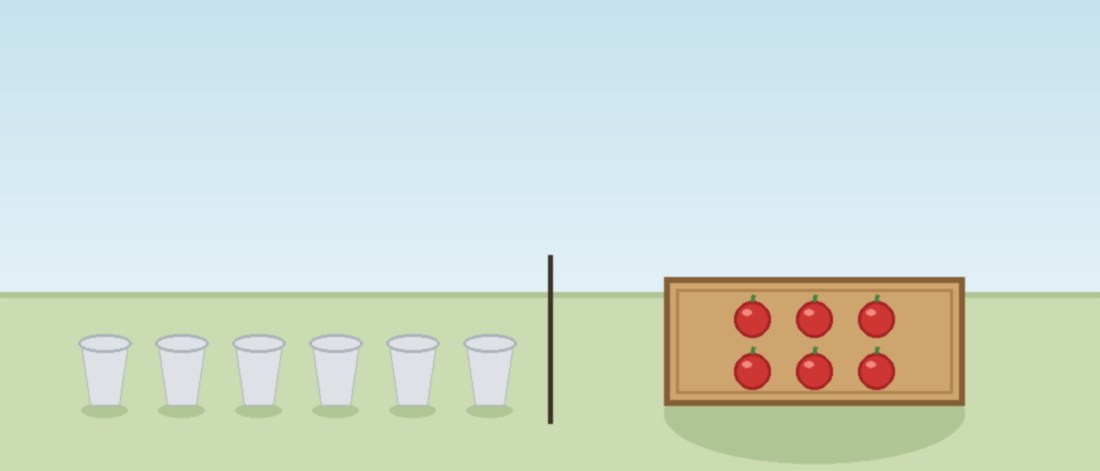
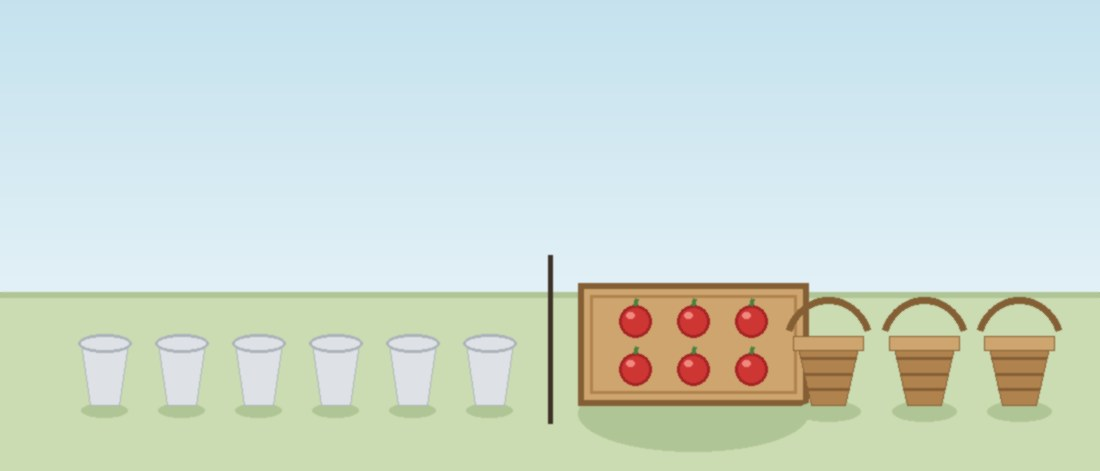
HH-167: show the empty baskets in the divide-by-zero panel (24/25 -> 25/25)
The last QC failure. L4 p7's right half drew the untouched crate of six berries
but no empty baskets, so it read as "here are six berries" and depicted nothing
about 6 / 0. The caption's argument is "empty baskets never hold 6 berries" —
which needs the empty baskets ON SCREEN beside the pile that never gets divided.

Now: six empty cups on the left for 0 / 6 = 0, and on the right the crate of six
still full beside a row of empty baskets waiting for a share that can never come.

Changed region(s): [[0.5255, 0.5648, 0.9582, 0.9809], [0.9582, 0.6837, 0.9891, 0.7134]]

diff --git a/tutor/mangadiagram.py b/tutor/mangadiagram.py
@@ -381,16 +381,25 @@ def zero_vs_pile(empties, pile, span="full"):
     gap = min(120, (w * 0.42) / max(empties, 1))
     for cx in _row_positions(empties, w * 0.27, gap):
         cup(d, cx, base, w=int(gap * 0.62), h=62)
-    crate_w = min(300, w * 0.34)
-    x0, x1 = w * 0.74 - crate_w / 2, w * 0.74 + crate_w / 2
+    # The right side has to hold BOTH halves of the argument: a row of empty
+    # baskets waiting to be filled, and the pile that never gets divided among
+    # them. Drawing the pile alone reads as "here are six berries" and says
+    # nothing about 6 / 0.
+    crate_cx = w * 0.63
+    crate_w = min(230, w * 0.22)
+    x0, x1 = crate_cx - crate_w / 2, crate_cx + crate_w / 2
     y1 = base
-    y0 = y1 - 128
+    y0 = y1 - 122
     tray(d, x0, y0, x1, y1)
     per_row = min(pile, 3)
     for r_i in range(math.ceil(pile / per_row)):
         in_row = min(per_row, pile - r_i * per_row)
-        for x in _row_positions(in_row, (x0 + x1) / 2, 62):
-            berry(d, x, y0 + 42 + r_i * 52, 18)
+        for x in _row_positions(in_row, crate_cx, min(58, crate_w / (in_row + 0.6))):
+            berry(d, x, y0 + 38 + r_i * 48, 16)
+    empties = 3
+    bgap = min(100, (w * 0.26) / empties)
+    for cx in _row_positions(empties, w * 0.84, bgap):
+        basket(d, cx, base, w=int(bgap * 0.66), h=62)
     return img
 
 
